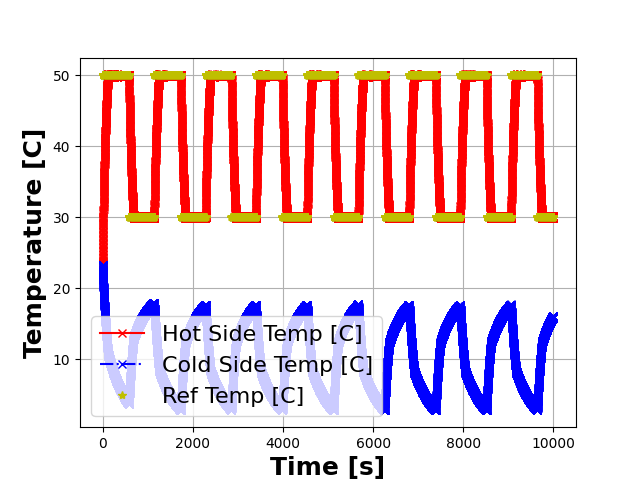
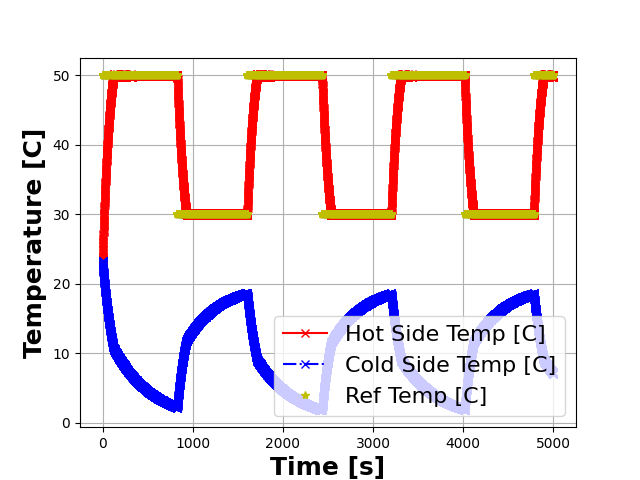
Bugs fixes in DQN (not yet operational-issues with the timing of the learning)

diff --git a/bessel/bessel.py b/bessel/bessel.py
@@ -28,7 +28,7 @@ from .neural_nets import MLP, Transition, ReplayMemory
 TEMP_SENSOR_SAMPLES_PER_SEC = 1.00
 SIMULATION_TIMESTEPS_PER_SENSOR_SAMPLE = 2.00
 SIMULATION_TIME_IN_SEC = 1500.00
-ROUND_DIGITS = 3
+ROUND_DIGITS = 1
 ERR_TOL = 0.15
 
 COLD_SIDE_NODE = 5
@@ -54,7 +54,7 @@ K_CONINT = 3.1
 EPS_START = 0.9
 EPS_END = 0.05
 EPS_DECAY = 200
-TARGET_UPDATE = 20
+TARGET_UPDATE = 10
 
 
 # Auxiliary Functions
@@ -137,21 +137,19 @@ class dqn_controller(controller):
 
     def __init__(self,
                  seqr,
-                 observation_space_d=1030301,
-                 action_space_d=25,
+                 action_space_d=19,
                  gamma=0.999):
         self.seqr = seqr
-        self.n_states = observation_space_d
         self.n_actions = action_space_d
         self.gamma = gamma
-        self.volt = [-12.0 + i for i in range(0, action_space_d, 1)]
+        self.volt = [-6.0 + i for i in range(0, action_space_d, 1)]
 
         self.policy_net = MLP(input_units=3,
-                              hidden_units=32,
+                              hidden_units=64,
                               output_units=self.n_actions,
                               bias=True)
         self.target_net = MLP(input_units=3,
-                              hidden_units=32,
+                              hidden_units=64,
                               output_units=self.n_actions,
                               bias=True)
         self.target_net.load_state_dict(self.policy_net.state_dict())
@@ -165,6 +163,7 @@ class dqn_controller(controller):
         self.iter = 1
         self.done = False
         self.t_prev = True
+        self.device = torch.device("cpu")
 
     def select_action(self, state):
         sample = random.random()
@@ -178,6 +177,12 @@ class dqn_controller(controller):
             return torch.tensor([[random.randrange(self.n_actions)]],
                                 dtype=torch.long)
 
+    def scale(self, x, var=(-100, 100), feature_range=(-1, 1)):
+        x_std = (x - var[0]) / (var[1] - var[0])
+        x_scaled = (x_std * (feature_range[1] - feature_range[0]) +
+                    feature_range[0])
+        return x_scaled
+
     def optimize_model(self):
         if len(self.memory) < self.batch_size:
             return
@@ -187,6 +192,7 @@ class dqn_controller(controller):
 
         non_final_mask = torch.tensor(tuple(map(lambda s: s is not None,
                                                 batch.next_state)),
+                                      device=self.device,
                                       dtype=torch.bool)
         non_final_next_states = torch.cat([s for s in batch.next_state
                                            if s is not None])
@@ -197,7 +203,7 @@ class dqn_controller(controller):
 
         state_action_values = self.policy_net(state_batch).gather(1,
                                                                   action_batch)
-        next_state_values = torch.zeros(self.batch_size)
+        next_state_values = torch.zeros(self.batch_size, device=self.device)
         next_state_values[non_final_mask] = self.target_net(non_final_next_states).max(1)[0].detach()
 
         expected_state_action_values = (next_state_values * self.gamma) + reward_batch
@@ -212,27 +218,38 @@ class dqn_controller(controller):
         self.optimizer.step()
 
     def reward_(self, x, x_ref):
-        if torch.abs(x_ref - x[0, 0]) <= 0.5:
-            return torch.tensor([0.0])
+        if x is None:
+            return 0
         else:
-            return torch.tensor([-1.0])
-        # return -(x_ref - x[0, 0])[0]**2
+            return -(x_ref - x[0, 0])[0]**2
 
     def dql_train(self, x, ref):
         ref = torch.tensor(ref).view(-1, 1)
-        if self.t_prev is True:
+        if self.done:
             self.state = torch.tensor(x.copy()).view(1, 3)
             self.action = self.select_action(self.state)
+
+        if self.t_prev is True and self.done is False:
+            self.state = torch.tensor(x.copy()).view(1, 3)
+            self.action = self.select_action(self.state)
+            self.r = self.reward_(self.state, ref)
             self.t_prev = False
-            if np.abs(x[0] - ref) < 0.1:
+            if np.abs(x[0] - ref) <= 0.9:
                 self.done = True
             else:
                 self.done = False
-        else:
+        elif self.done is False:
+            self.action = self.select_action(self.state)
+            self.r = self.reward_(self.state, ref)
+            if np.abs(x[0] - ref) <= 0.9:
+                self.done = True
+            else:
+                self.done = False
+
             if not self.done:
                 self.next_state = torch.tensor(x.copy()).view(1, 3)
-
-            self.r = self.reward_(self.next_state, ref)
+            else:
+                self.next_state = None
 
             self.memory.push(self.state,
                              self.action,
@@ -247,13 +264,12 @@ class dqn_controller(controller):
                 self.target_net.load_state_dict(self.policy_net.state_dict())
 
             self.iter += 1
-            self.t_prev = True
         return self.volt[self.action.item()] @ u_V
 
     def _controller_f(self, t, ref, sensor_dict):
-        state = [sensor_dict['th'][-1],
-                 sensor_dict['tc'][-1],
-                 ref]
+        th = sensor_dict['th'][-1]
+        tc = sensor_dict['tc'][-1]
+        state = [th, tc, ref]
         v = self.dql_train(state, ref)
         print("Th: %f, Tc: %f, REF: %f, V: %f" % (state[0],
                                                   state[1],
@@ -471,7 +487,7 @@ class tec_lib(PySpice.Spice.NgSpice.Shared.NgSpiceShared):
     def __init__(self,
                  controller_f,
                  ref=0.00,
-                 steady_state_cycles=2500,
+                 steady_state_cycles=1000,
                  plate_select=TECPlate.HOT_SIDE,
                  **kwargs):
         # Temporary workaround:

diff --git a/bessel/neural_nets.py b/bessel/neural_nets.py
@@ -17,8 +17,9 @@ class MLP(nn.Module):
         self.fc3 = nn.Linear(hidden_units, output_units, bias=self.bias)
 
         self.relu = nn.ReLU()
+        self.tanh = nn.Tanh()
 
-        self.init(init_method="xavier")
+        self.init(init_method="uniform")
 
     def init(self, init_method="uniform"):
         if init_method == "xavier":
@@ -28,9 +29,9 @@ class MLP(nn.Module):
                                     gain=nn.init.calculate_gain('relu'))
             nn.init.xavier_uniform_(self.fc3.weight.data)
         else:
-            nn.init.uniform_(self.fc1.weight.data, a=-.4, b=.4)
-            nn.init.uniform_(self.fc2.weight.data, a=-.4, b=.4)
-            nn.init.uniform_(self.fc3.weight.data, a=-.4, b=.4)
+            nn.init.uniform_(self.fc1.weight.data, a=-.01, b=.01)
+            nn.init.uniform_(self.fc2.weight.data, a=-.01, b=.01)
+            nn.init.uniform_(self.fc3.weight.data, a=-.01, b=.01)
 
     def forward(self, x):
         """ forward """

diff --git a/tests/dqn_hot.py b/tests/dqn_hot.py
@@ -17,7 +17,7 @@ if __name__ == "__main__":
                               None,
                               bessel.Signal.VOLTAGE,
                               plate_select=plate_select)
-    cbs = bessel.circular_buffer_sequencer([25.00],
+    cbs = bessel.circular_buffer_sequencer([30.00],
                                            pC.get_ncs())
     nc = bessel.dqn_controller(cbs,
                                gamma=0.999)
